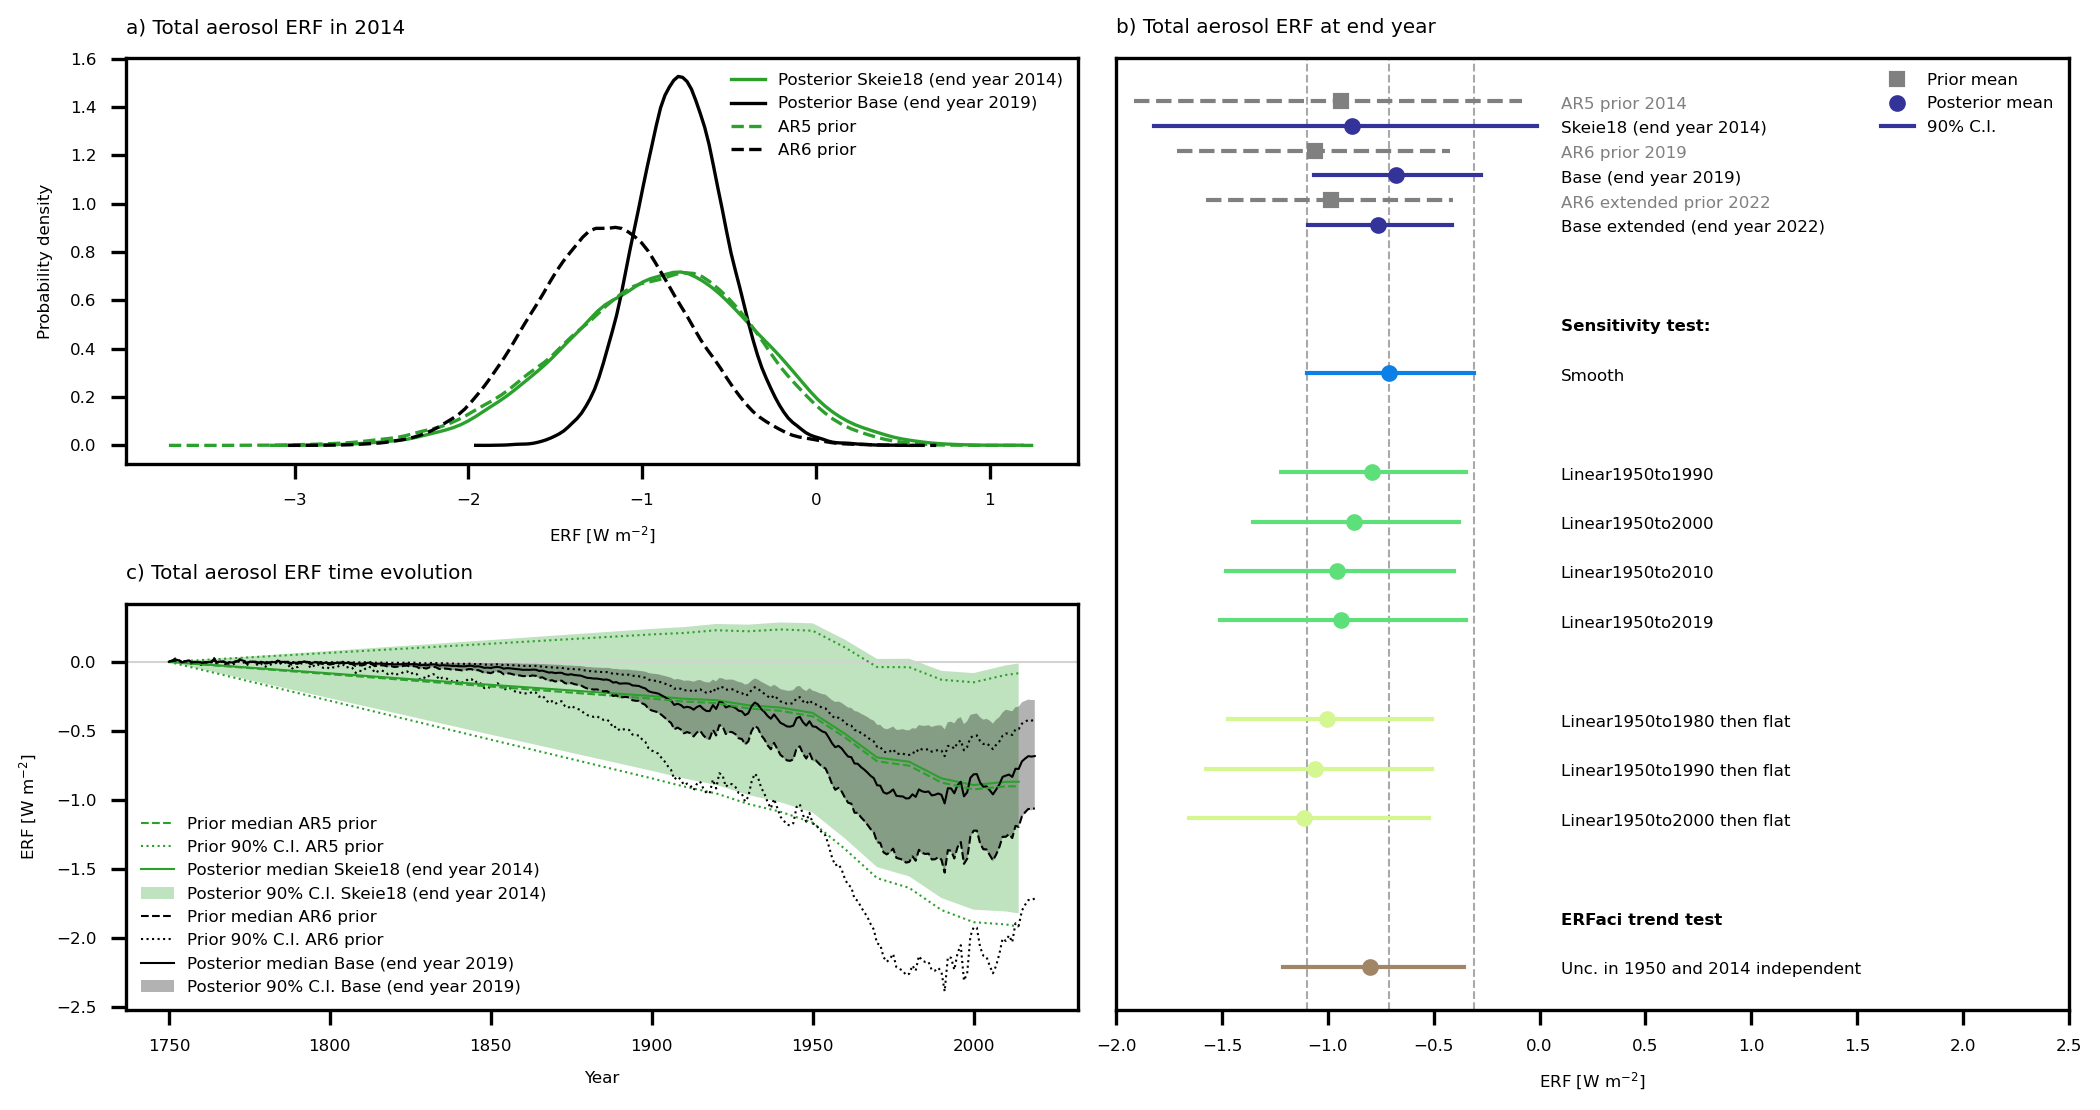
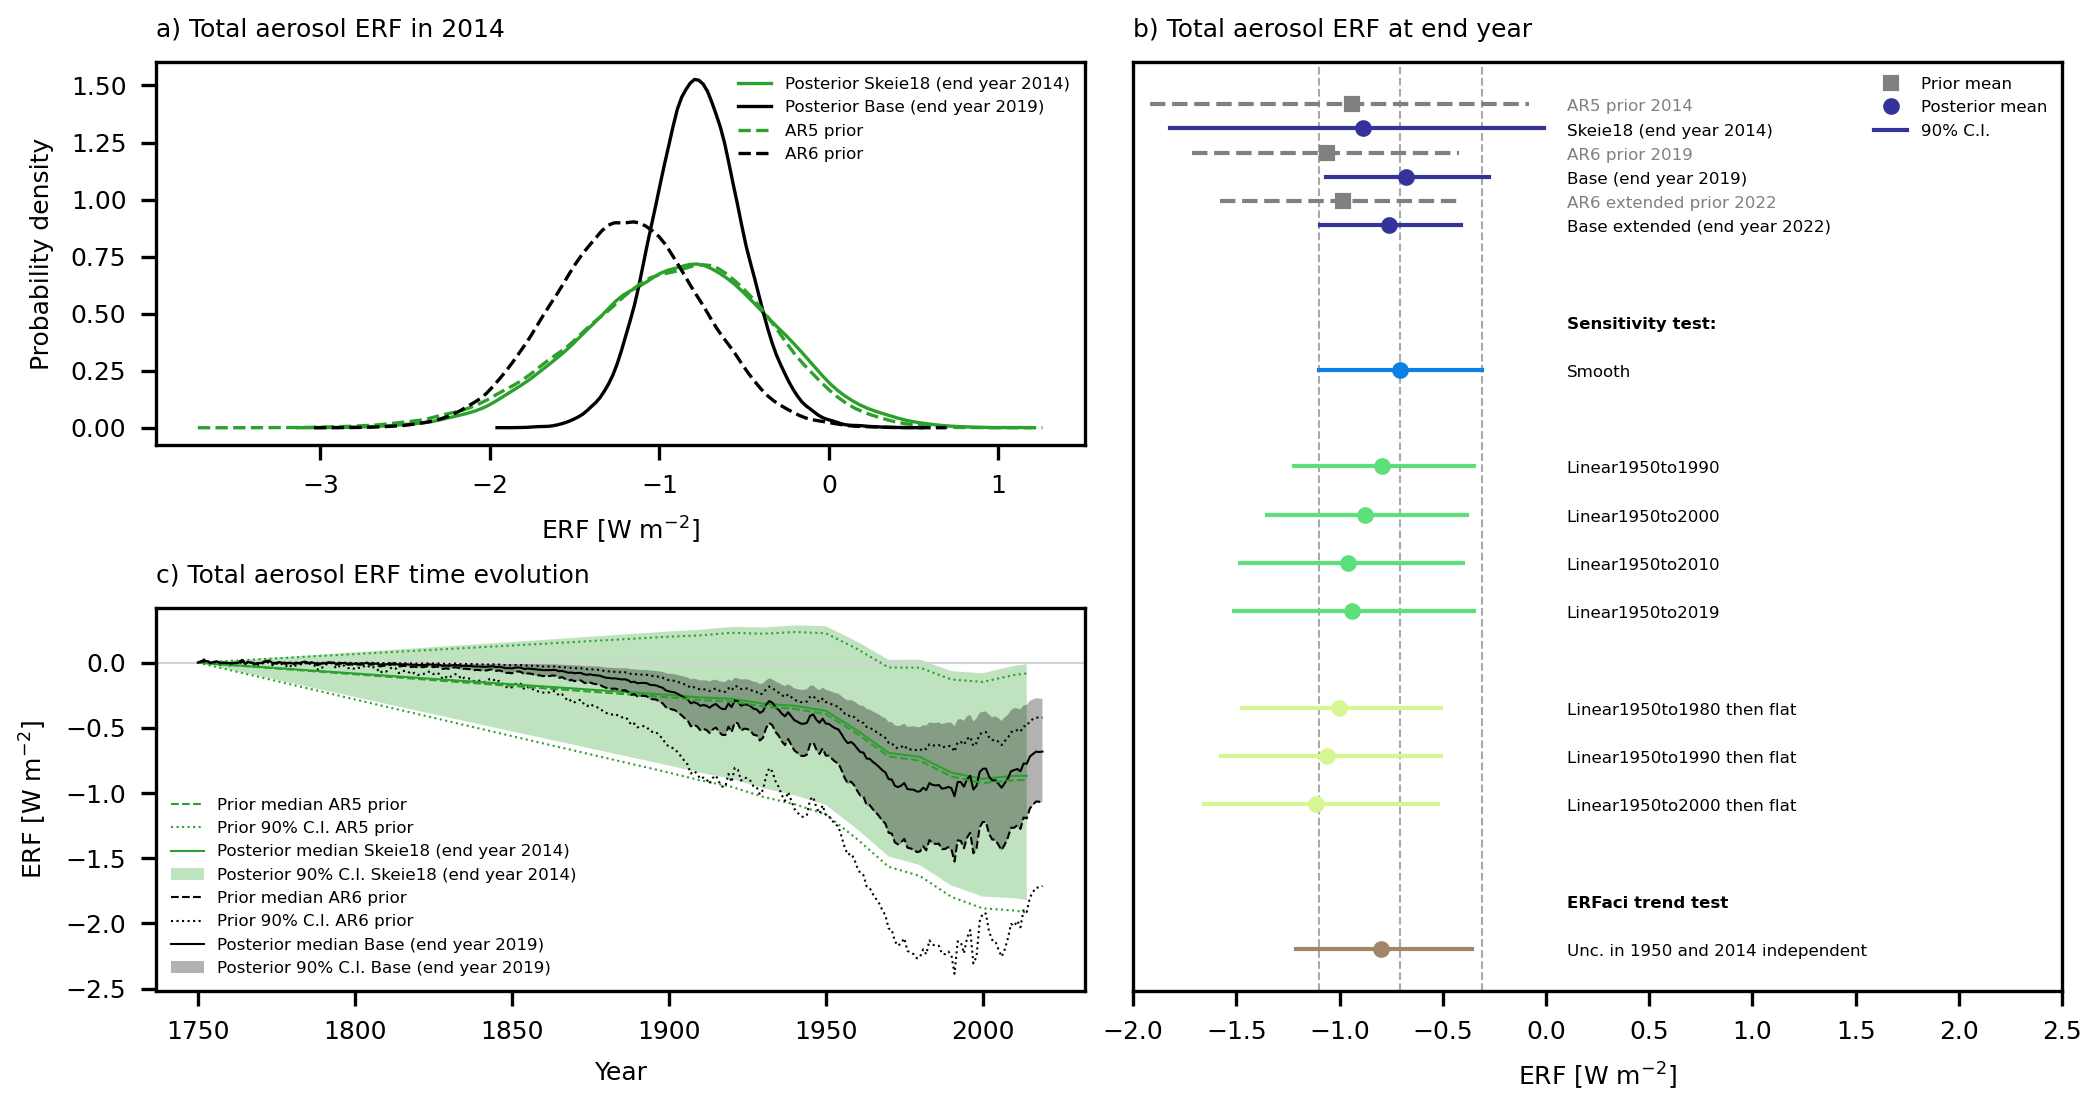
div updates..

diff --git a/scripts_for_figures/plot_rf_prior_post_combined.py b/scripts_for_figures/plot_rf_prior_post_combined.py
@@ -8,7 +8,8 @@ from dict_for_simulations import dict_for_simulations
 plt.rcParams['font.size'] = 4
 plt.rcParams['figure.dpi'] = 300
 
-
+plt.rc('xtick', labelsize=6)
+plt.rc('ytick', labelsize=6)    # fontsize of the tick labels
 
 def plot_pdf_posterior():
     for sc,scen in enumerate(scen_list):
@@ -273,7 +274,7 @@ scen_end_yr = {'OutputAnalyse01':2014,
 scen_list_out,scen_colorlist =  dict_for_simulations()
 antscen = len(scen_list_out)
 
-rf_comp = 'antro' #'antro' #aero' #antro' #'aero' #antro' #'aero' #antro' #'Tot' #'antro' #'aero' #'antro' #'aero'
+rf_comp = 'aero'#antro' #'antro' #aero' #antro' #'aero' #antro' #'aero' #antro' #'Tot' #'antro' #'aero' #'antro' #'aero'
 
 rf_list_long = {'Tot':'Total ERF',
                 'antro':'Anthropogenic ERF',
@@ -379,17 +380,17 @@ ax.set_yticks([])
 ax.legend(frameon=False,loc='upper right')
 
 #plt.suptitle(rf_list_long[rf_comp])
-axes["top left"].set_xlabel('ERF [W m$^{-2}$]')
-axes["top left"].set_ylabel('Probability density')
-axes["bottom left"].set_ylabel('ERF [W m$^{-2}$]')
-axes["bottom left"].set_xlabel('Year')
-axes["right"].set_xlabel('ERF [W m$^{-2}$]')
+axes["top left"].set_xlabel('ERF [W m$^{-2}$]',fontsize=6)
+axes["top left"].set_ylabel('Probability density',fontsize=6)
+axes["bottom left"].set_ylabel('ERF [W m$^{-2}$]',fontsize=6 )
+axes["bottom left"].set_xlabel('Year',fontsize=6 )
+axes["right"].set_xlabel('ERF [W m$^{-2}$]',fontsize=6 )
 
 
 
-axes["top left"].set_title('a) '+ rf_list_long[rf_comp] + ' in 2014' ,loc='left')
-axes["right"].set_title('b) '+ rf_list_long[rf_comp] + ' at end year',loc='left')
-axes["bottom left"].set_title('c) '+ rf_list_long[rf_comp] + ' time evolution',loc='left')
+axes["top left"].set_title('a) '+ rf_list_long[rf_comp] + ' in 2014' ,loc='left',fontsize=6)
+axes["right"].set_title('b) '+ rf_list_long[rf_comp] + ' at end year',loc='left',fontsize=6)
+axes["bottom left"].set_title('c) '+ rf_list_long[rf_comp] + ' time evolution',loc='left',fontsize=6)
 
 
 

diff --git a/scripts_for_figures/plot_rib_trend_all.py b/scripts_for_figures/plot_rib_trend_all.py
@@ -229,6 +229,8 @@ b, a = np.polyfit(x.values, y.values, deg=1)
 xseq = x.values
 ax.plot(xseq, a + b * xseq, color="blue",linestyle= '-.',lw=0.5)# ,label = str(b*10.0))
 #ax.text(2022.5, a + b * 2022, '{:2.2f}'.format(b*10.0)+' Wm$^{-2}$ dec$^{-1}$', color="blue",fontsize=10)
+print('Trend in CERES:')
+print('{:2.2f}'.format(b*10.0)+' Wm$^{-2}$ dec$^{-1}$')
 
 print('Increase in EEI') 
 print(ceres_df['net'].loc[2000:2009].mean())
